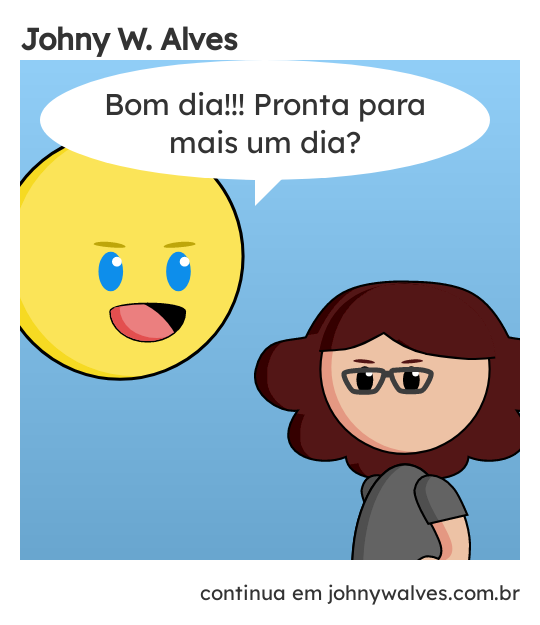
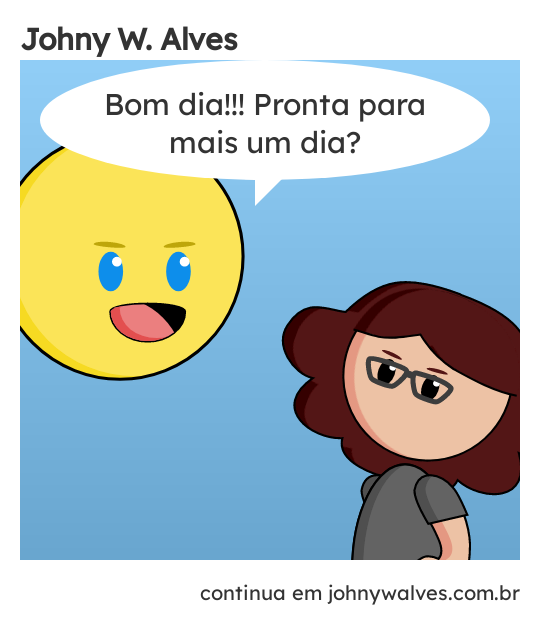
:sparkles: Adição da tirinha 0021

Changed region(s): [[0.4741, 0.4256, 0.9778, 0.7904], [0.8889, 0.4864, 0.9778, 0.5472]]

diff --git a/posts/2022-06-16-Comic_21.md b/posts/2022-06-16-Comic_21.md
@@ -1,0 +1,13 @@
+---
+date: 2022-06-16 07:35:02 -0300
+title: Tentação! 
+category: Comic
+featuredImage: ./comics/0021.png
+coverImage: /comics/0021-thumb.png
+number: 21
+transcription: Tirinha com título Tentação e conteúdo Quadro 1. Msone pensando sozinha Msone pensa "Preciso decidir como melhorar esse código..." Msone (Lado mal) fala "Deixa ele assim, você refatora depois". Quadro 2.. Quadro 3.. Quadro 4. Sol fala "Cadê a pessoa que dá bons conselhos?" Msone (Lado mal) fala "Você realmente acredita na existência dela?".
+tags:
+  - Tirinha
+  - Maus hábitos
+  - Lado Mal
+---
